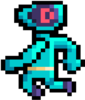
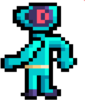
blue2 anim 2
animation is coded

diff --git a/main.py b/main.py
@@ -17,26 +17,51 @@ class Player(pygame.sprite.Sprite):
         pygame.sprite.Sprite.__init__(self)
         img_dir = path.join(path.dirname(__file__), 'Assets')
         self.image = pygame.image.load(path.join(img_dir, 'blue1.png')).convert()
+        self.blue2 = [pygame.image.load(path.join(img_dir, 'blue2_0.png')).convert(),
+                      pygame.image.load(path.join(img_dir, 'blue2_1.png')).convert(),
+                      pygame.image.load(path.join(img_dir, 'blue2_2.png')).convert(),
+                      pygame.image.load(path.join(img_dir, 'blue2_3.png')).convert(),
+                      pygame.image.load(path.join(img_dir, 'blue2_4.png')).convert(),
+                      pygame.image.load(path.join(img_dir, 'blue2_5.png')).convert(),
+                      pygame.image.load(path.join(img_dir, 'blue2_6.png')).convert()]
         self.image.set_colorkey((255, 255, 255))
         self.rect = self.image.get_rect()
-        print(self.image.get_rect())
         self.rect.center = (33, HEIGHT - 100)
+        self.left = 0
+        self.right = 0
+        self.animcount = 0
     def update(self):
         self.speedx = 0
         self.rect.x += self.speedx
         keystate = pygame.key.get_pressed()
+        if self.animcount + 1 >= 60:
+            self.animcount = 1
         if keystate[pygame.K_LEFT]:
+            self.left = True
+            self.right = False
             self.speedx = -8
-            self.image = pygame.image.load(path.join(img_dir, 'blue2.png')).convert()
+            # self.image = pygame.image.load(path.join(img_dir, 'blue2.png')).convert()
             self.image.set_colorkey((255, 255, 255))
-        if keystate[pygame.K_RIGHT]:
+        elif keystate[pygame.K_RIGHT]:
+            self.right = True
+            self.left = False
             self.speedx = 8
-            self.image = pygame.image.load(path.join(img_dir, 'blue1.png')).convert()
+            # self.image = pygame.image.load(path.join(img_dir, 'blue1.png')).convert()
             self.image.set_colorkey((255, 255, 255))
+        else:
+            self.left = False
+            self.right = False
+            self.animcount = 0
         if self.rect.right > WIDTH:
             self.rect.right = WIDTH
         if self.rect.left < 0:
             self.rect.left = 0
+        self.animcount += 1
+        if self.left:
+            self.image = pygame.image.load(path.join(img_dir, f'blue2_{self.animcount // 9}.png')).convert()
+        else:
+            self.image = pygame.image.load(path.join(img_dir, 'blue1.png')).convert()
+        self.image.set_colorkey((255, 255, 255))
         self.rect.x += self.speedx
 
 
